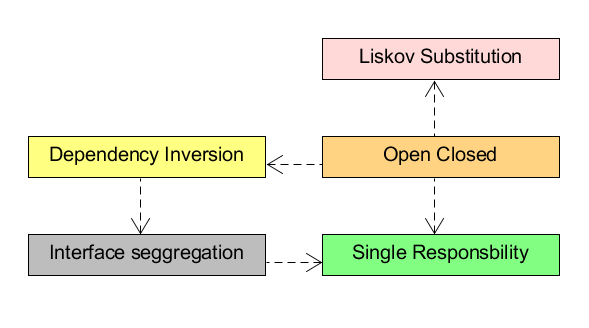
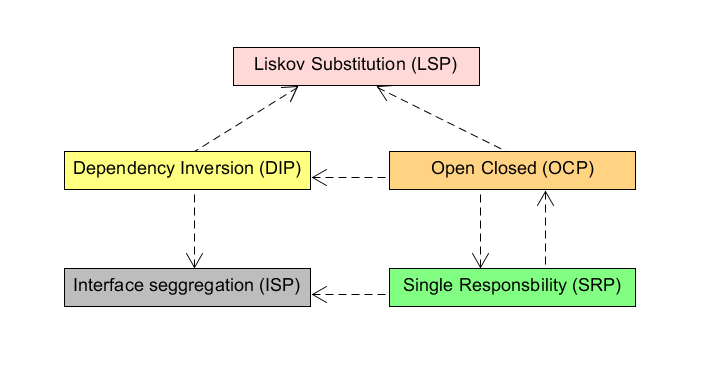
Described SOLID relations

diff --git a/6. Principle relations/README.md b/6. Principle relations/README.md
@@ -1,16 +1,24 @@
 # Relations between the SOLID principles
 
 ## Context
-It is interesting to observe the relations between the SOLID principles, because implementing one can result in the other. Knowing these relations provide clearance in why certain principles exist. Some 'exist' more in the theoretical sense, others more in practical sense. The SOLID releations could help us to simplify adhering to them, because relations provide a link to stand-alone pieces that result in better remembering. 
+It is interesting to observe the relations between the SOLID principles, because it could provide clearance about how the principles 'support' each other. I think there are two types of principles:
+1. Theoretical principle: elaborates more on the 'why', but less on the 'how' 
+2. Practical principle: elaborates more on the 'how', but less on the 'why'
+
+The SOLID releations could help us to simplify adhering to them, because relations provide a link to stand-alone pieces that result in better remembering. 
 
 ## Relations
-Each principle has a dependency to one another, except for the Single Responsibility Principle. The SRP is used by other principles, but is not dependent on other principles. I would say SRP exists more on the theoretical level. It contains a 'guideline' to develop high quality software, but it is really intangible when we talk about the 'how'. An expierenced software engineer understands the meaning of this abstract, intangible 'how', but it will be hard to demonstrate it to a beginner. Applying it correctly almost requires you to have a new 'sense'. 
-
 
 <img src=Relations.png width=50% height=50%>
 
-The open closed principle is dependent on the Liskov Substitution, Depedency Inversion and Single Responsibility principle. OCP is about preventing to break our working, existing code and test cases. The principle is (in my opinion) the most appicable on the functional level of the code and less on the class level. Just like Single Responsibility, OCP exists more in the theoratical sense. It is clear 'what' we want to achieve, but it is complex to explain how to exactly accomplish this. One way to accomplish 'Open Closed' is to use DIP. DIP emphasizes the use of abstractions (i.e.: interfaces and abstract classes) and these abstractions provide an easy way to extend our system with new functionality. The DIP is about change, OCP is about extension, which is a form of change. DIP is more the umbrella principle and the OCP resides under that umbrella to emphasize extension without modifying. DIP additionally simplifies replacement in case this is required. Replacement means removal of 'old' implementation and insertion of 'new' implementation. Depedency Inversion 'exists' in the practical sense. It has a strong and clear explanation on 'how' to achieve it, but the 'why' resides more in the Open Closed principle.
+The Single Responsibility principle is depedent on the interface seggregation and Open Closed principle. SRP is about minimizing our problem window, so we can adjust, extend and test easily. I would say Single Responsibility is a theoratical principle. It contains a 'guideline' to develop high quality software, but it is really intangible when we talk about the 'how'. An expierenced software engineer understands the meaning of this abstract, intangible 'how', but it will be hard to demonstrate it to a beginner. Applying it correctly almost requires you to have a new 'sense'. 
 
-Liskov Subsitution is another principle 'existing' in the practical sense. It explains use 'how' we should use inheritance in a way that we can ensure that all our sub-types can be used just like our base types. We apply this principle to prevent bugs/undefined behavior when extension is required and to prevent complexity in a system. The more exceptional cases we have of our base contract the more our cyclomatic complexity will grow. Inheritance is a 'resource' to achieve Open Closed and Liskov Substitution provides a way to apply this 'resource' in a correct way. This explains the relation between LSP and OCP.
+Interface seggregation exists both in the practical and theoretical sense. The principle clearly explains 'how' we should comply to it and 'why'. ISP is about preventing redundant coupling, to prevent unnecessary maintainance and complexity. The relation between single responsbility comes from designing our interfaces based on the need of our client. 'Client-need' is one of the factors that determine the single responsibility of a class or interface. A class, containing a group of functions, which is often required by our clients could tell us something about the single responsibility of that class. The reduction of unnessary coupling, that results from interface seggregation, is a contribution to Single Responsibility.
 
-The Open Closed principle uses the Single Responsibility to simplify extension without modifying. ...
+The open closed principle is dependent on the Liskov Substitution, Dependency Inversion and Single Responsibility principle. OCP is about preventing our working, existing code and test cases from breaking. The principle is (in my opinion) the most applicable on the functional level of the code and less on the class level. OCP is a theoratical principle. It is clear 'what' we want to achieve, but it is complex to explain 'how' to exactly accomplish this. However, one way to accomplish 'Open Closed' is to use Dependency Inversion. DIP emphasizes the use of abstractions (i.e.: interfaces and abstract classes) and these abstractions provide an easy way to extend our system with new functionality. Dependency inversion is about change, Open Closed is about extension, which is a form of change. DIP is more the umbrella principle and the OCP resides under that umbrella to emphasize extension without modifying. DIP additionally simplifies replacement in case this is required. Replacement means removal of 'old' implementation and insertion of 'new' implementation. Dependency Inversion is a practical principle. It has a strong and clear explanation on 'how' to achieve it, but the 'why' resides more in the Open Closed principle. 
+
+Liskov Subsitution is another principle 'existing' in the Practical 'sense'. It explains 'how' to use inheritance in a way that we can ensure that all our sub-types can be used just like our base types. We apply this principle to avoid bugs/undefined behavior and system complexity when extension is required. The more exceptional cases we have of our base contract, the more our cyclomatic complexity will increase. Inheritance is a 'resource' to achieve Open Closed and Liskov Substitution provides a way to apply this 'resource' in a correct way. This explains the relation between Liskov SubStitution and Open Closed. 
+
+The relation between Open Closed and Single Responsibility is mutual. Ahdering to Single Responsibility will result in easy extendable code. SRP provides us clear seperation. Clear seperation provides overview that results in simplifying extension. It could mean that OCP arises from applying SRP 'correctly', but also the other way around.
+
+Dependency inversion has a dependency towards Interface Seggregation principle and Liskov Subtitution. DIP uses interfaces and abstract classes to be adaptive to change and ISP provides a 'guideline' on how to correctly implement these abstractions. The same relation accounts between Liskov Substitution and Dependency inversion principle. LSP explains us the 'correct' usage of inheritance and inheritance is one of the techniques required to achieve DIP.  
